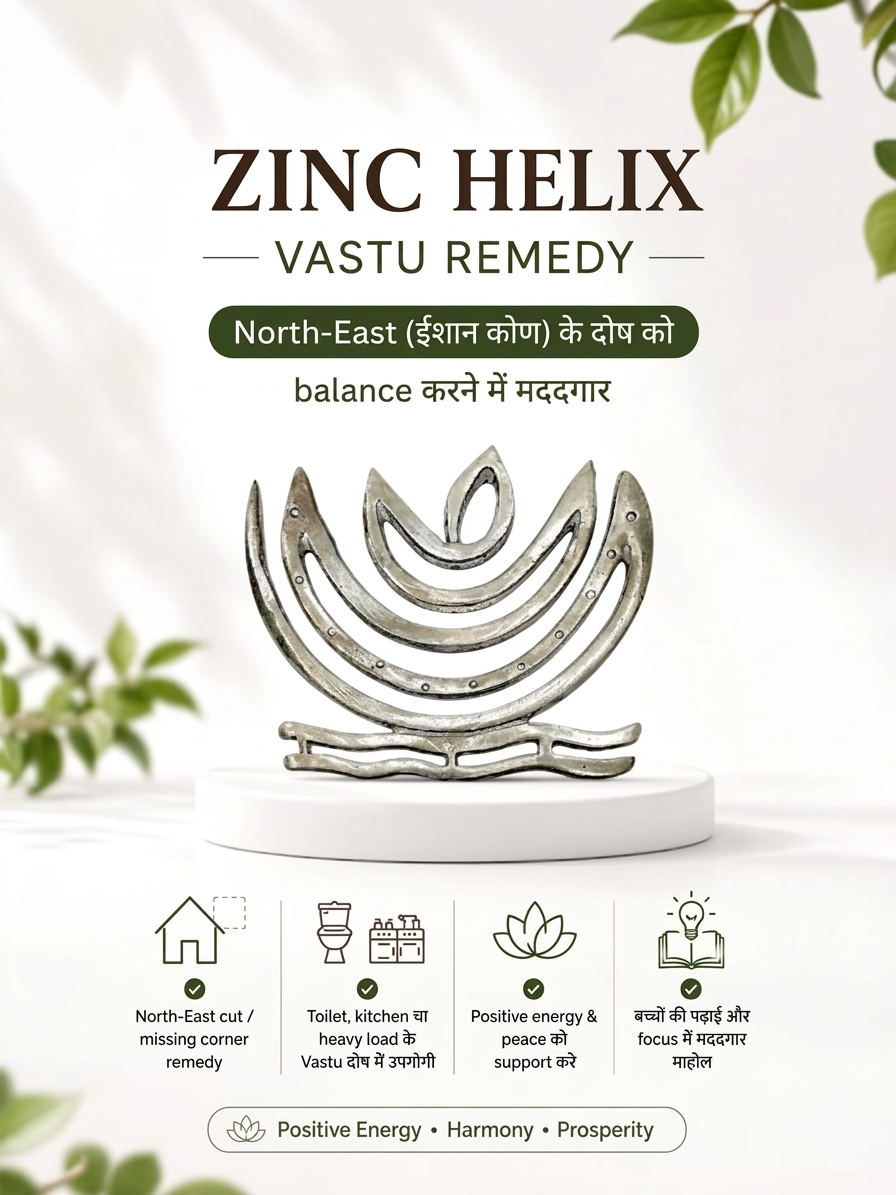
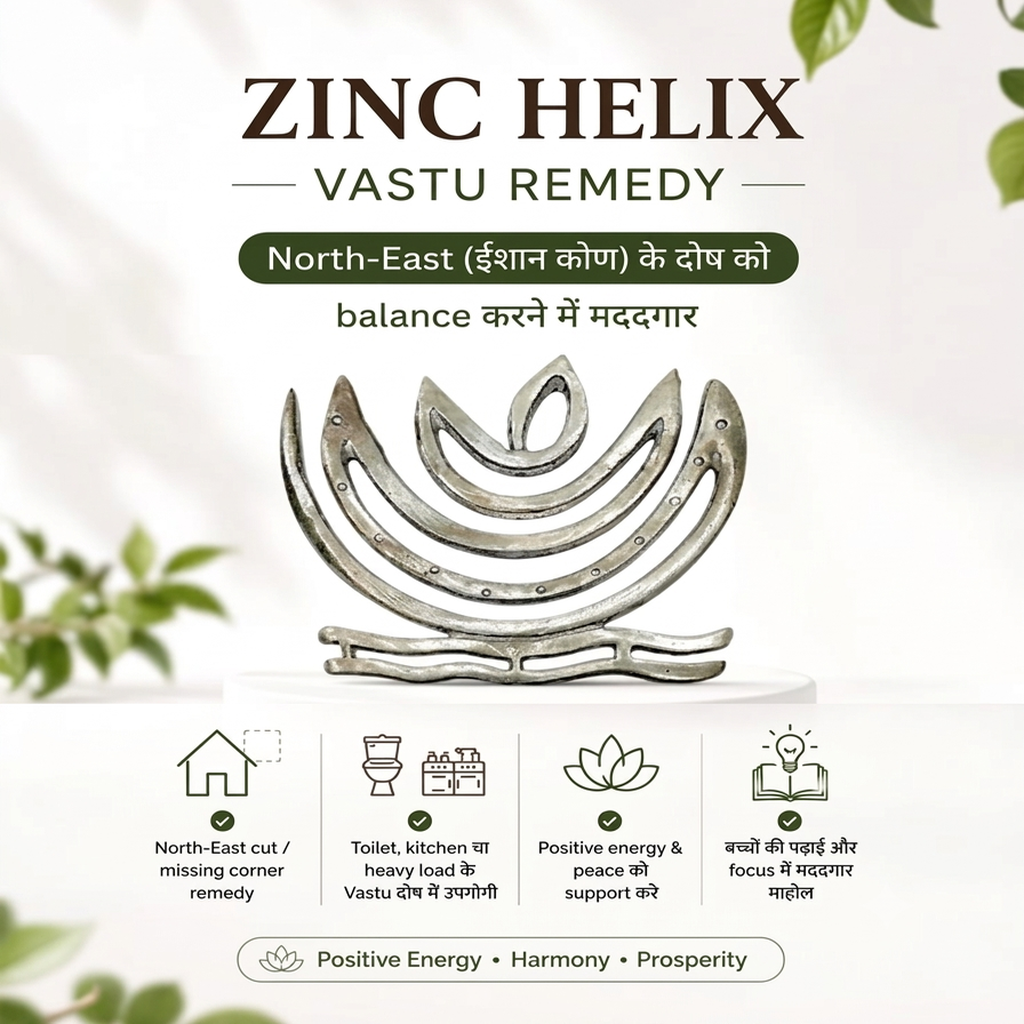
Product photo click opens image lightbox; normalize zinc poster to square, matching all other Vastu/product images 1:1

diff --git a/products.html b/products.html
@@ -191,22 +191,35 @@
     aspect-ratio:1/1; overflow:hidden;
   }
   /* Product photos are full "everything in one shot" info-cards (image +
-     name + benefits + price baked in by the designer), mostly square
-     1024x1024 posters — a fixed 1:1 box (object-fit:contain) keeps every
-     card in a row the same size, matching the posters' own shape so
-     there's no letterboxing. The Vastu Remedy posters were designed
-     taller than square, so that category gets its own taller box below
-     rather than stretching or cropping them to fit the square one. */
+     name + benefits + price baked in by the designer), all normalized to
+     the same 1024x1024 square — a fixed 1:1 box (object-fit:contain) keeps
+     every card in every category the exact same size, with no per-category
+     exceptions and no letterboxing. */
   .product-photo img{ width:100%; height:100%; display:block; object-fit:contain; }
-  #cat-vastu-remedy-items .product-photo{ aspect-ratio:3/4; }
 
-  /* The whole photo is the buy-on-WhatsApp click target — no dark overlay
-     needed, so the poster itself always stays fully clear. */
-  .product-photo.is-clickable{ cursor:pointer; }
+  /* The whole photo opens an enlarged view (lightbox) so the dense
+     infographic text baked into each poster is easy to read — no dark
+     overlay needed, so the poster itself always stays fully clear. */
+  .product-photo.is-clickable{ cursor:zoom-in; }
   .product-photo.is-clickable:hover img,
   .product-photo.is-clickable:focus-visible img{ transform:scale(1.02); }
   .product-photo.is-clickable img{ transition:transform .15s ease; }
   .product-photo.is-clickable:focus-visible{ outline:2px solid var(--gold); outline-offset:-2px; }
+
+  /* ---------- Image lightbox (enlarge product poster on click) ---------- */
+  .lightbox-overlay{
+    position:fixed; inset:0; background:rgba(21,42,99,0.82);
+    display:none; align-items:center; justify-content:center; z-index:110; padding:24px;
+  }
+  .lightbox-overlay.open{ display:flex; }
+  .lightbox-overlay img{
+    max-width:100%; max-height:90vh; width:auto; height:auto;
+    border-radius:10px; box-shadow:0 12px 40px rgba(0,0,0,0.35);
+  }
+  .lightbox-close{
+    position:absolute; top:18px; right:22px; background:none; border:none;
+    font-size:2rem; line-height:1; color:#fff; cursor:pointer;
+  }
 
   .product-body{ padding:20px 20px 24px; display:flex; flex-direction:column; gap:10px; flex:1; }
   .product-body h3{ font-size:1.2rem; margin-bottom:0; }
@@ -330,6 +343,12 @@
   </div>
 </div>
 
+<!-- Enlarged product image lightbox -->
+<div class="lightbox-overlay" id="imageLightbox">
+  <button class="lightbox-close" onclick="closeLightbox()" aria-label="Close">&times;</button>
+  <img id="lightboxImg" src="" alt="">
+</div>
+
 <script>
   document.getElementById('year').textContent = new Date().getFullYear();
 
@@ -388,15 +407,17 @@
       img.onerror = function(){ photo.textContent = 'Image not found: ' + item.image; };
       photo.appendChild(img);
 
-      // The photo itself is the "Buy Now" click target — tapping/clicking
-      // the product image opens WhatsApp directly, no overlay needed.
+      // The poster is itself the product info (name, benefits, how to use —
+      // all baked into the image), so tapping/clicking it just opens an
+      // enlarged view to read it. Buying stays on the separate button below.
+      var imageSrc = item.image;
       photo.classList.add('is-clickable');
       photo.setAttribute('role', 'button');
       photo.setAttribute('tabindex', '0');
-      photo.setAttribute('aria-label', 'Buy ' + item.name + ' on WhatsApp');
-      photo.onclick = function(){ openBookingModal(productMessage); };
+      photo.setAttribute('aria-label', 'View larger image of ' + item.name);
+      photo.onclick = function(){ openLightbox(imageSrc, item.name); };
       photo.onkeydown = function(e){
-        if (e.key === 'Enter' || e.key === ' '){ e.preventDefault(); openBookingModal(productMessage); }
+        if (e.key === 'Enter' || e.key === ' '){ e.preventDefault(); openLightbox(imageSrc, item.name); }
       };
     } else {
       photo.textContent = 'No photo yet';
@@ -563,6 +584,28 @@
 
   document.getElementById('bookingModal').addEventListener('click', function(e){
     if(e.target === this) closeBookingModal();
+  });
+
+  // ---- Enlarged product image lightbox ----
+  function openLightbox(src, name){
+    if (!src) return;
+    var img = document.getElementById('lightboxImg');
+    img.src = src;
+    img.alt = name || '';
+    document.getElementById('imageLightbox').classList.add('open');
+  }
+
+  function closeLightbox(){
+    document.getElementById('imageLightbox').classList.remove('open');
+    document.getElementById('lightboxImg').src = '';
+  }
+
+  document.getElementById('imageLightbox').addEventListener('click', function(e){
+    if(e.target === this) closeLightbox();
+  });
+
+  document.addEventListener('keydown', function(e){
+    if (e.key === 'Escape') closeLightbox();
   });
 </script>
 
